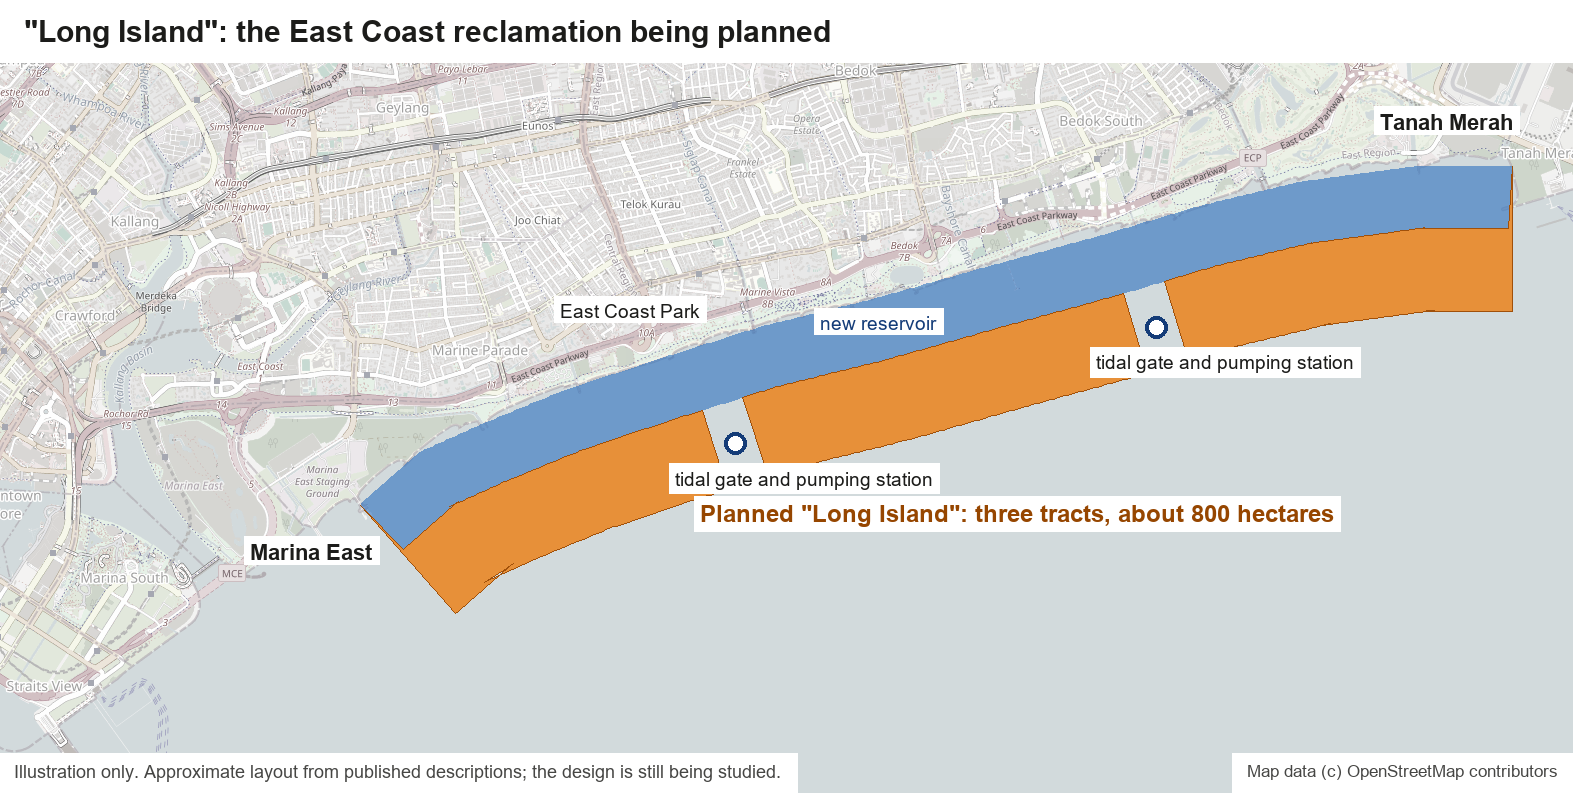
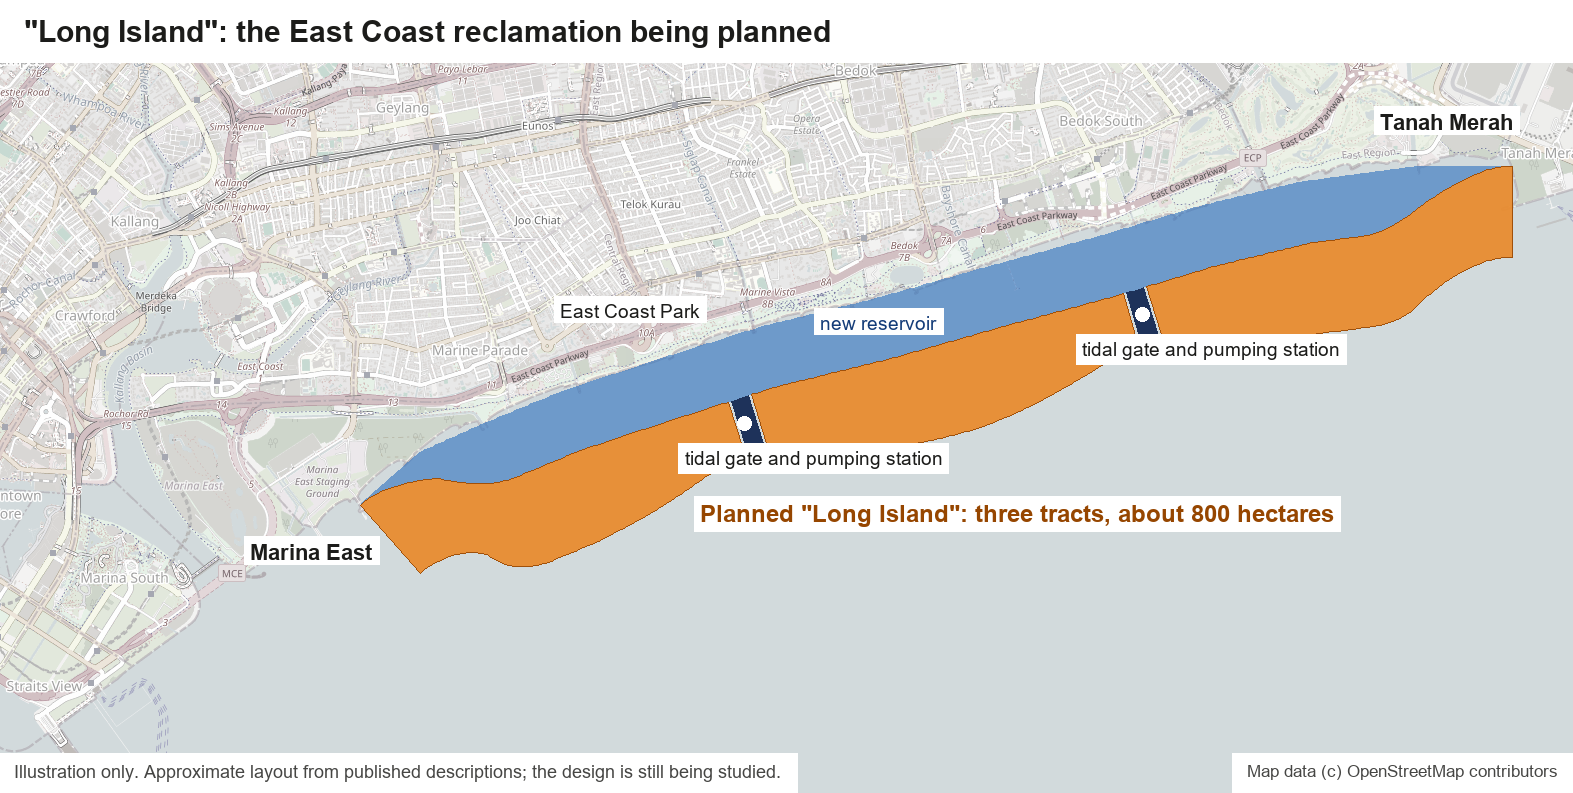
Long Island illustration: enclose the reservoir (land joints at both ends, gates spanning the gaps)
Islands now join the mainland at Marina East and Tanah Merah and the two tidal
gates close the gaps, as in URA's concept drawings; islands fuller mid-way,
narrower at the gates; ~813 ha. Smoothed coastline normals remove edge kinks.

Claude-Session: https://claude.ai/code/session_014vyi5DydGd12SnQWie299V

diff --git a/scripts/render_long_island_map.py b/scripts/render_long_island_map.py
@@ -8,7 +8,9 @@ of the concept announced in November 2023: three elongated tracts of reclaimed
 land from Marina East to Tanah Merah (the westernmost extending Marina East, the
 easternmost starting from Tanah Merah), a new reservoir between them and East
 Coast Park, and a tidal gate and pumping station between each pair of tracts,
-about 800 hectares in all. The tract shapes, widths and offsets are hand-set
+about 800 hectares in all. The two end islands join the mainland with wide
+land connections, so the reservoir is enclosed by land and the two gates, as in
+URA's concept drawings. The island shapes, widths and offsets are hand-set
 approximations sized to roughly 800 ha; URA says the design is still being
 studied. Official URA/CNA graphics are copyrighted and are not used.
 
@@ -38,10 +40,11 @@ M_PER_PX = 156543.03 * math.cos(math.radians(1.3)) / 2 ** Z
 # East Coast shoreline (pixel space of the cached base), Marina East -> Tanah Merah.
 COAST = [(360, 505), (420, 452), (480, 425), (560, 392), (650, 362), (760, 327), (870, 300),
          (990, 266), (1100, 236), (1200, 206), (1300, 182), (1420, 166), (1512, 166)]
-RES = 62    # reservoir width, px (seaward edge of the coast to the tracts)
-WIDTH = 83  # tract width, px
-# Tracts as fractions along the coastline; the ends join Marina East / Tanah Merah.
-TRACTS = [(0.0, 0.30), (0.335, 0.66), (0.695, 1.0)]
+RES = 62     # full reservoir width, px, between East Coast Park and the islands
+WIDTH = 91   # peak island width, px (islands are fuller mid-way, narrower at the gates)
+JOIN = 0.13  # length of the land joints at each end, as a fraction of the coast
+GATES = [0.33, 0.67]  # tidal gates between the islands, as fractions along the coast
+GAP = 0.018  # width of each gate gap, as a fraction of the coast
 
 
 def base():
@@ -77,6 +80,12 @@ def along(pts, n=400):
     normal = np.column_stack([-d[:, 1], d[:, 0]])  # rotate +90deg: points out to sea here
     if normal[:, 1].mean() < 0:
         normal = -normal
+    # smooth the normals so the offset edges don't kink at the coastline's corners
+    k = np.hanning(41)
+    k /= k.sum()
+    pad = np.pad(normal, ((20, 20), (0, 0)), mode="edge")
+    normal = np.column_stack([np.convolve(pad[:, 0], k, "valid"), np.convolve(pad[:, 1], k, "valid")])
+    normal /= np.hypot(normal[:, 0], normal[:, 1])[:, None]
     return xy, normal
 
 
@@ -96,24 +105,45 @@ def main():
     muted = Image.blend(muted, Image.new("RGB", b.size, "white"), 0.3)
     xy, nrm = along(COAST)
     N = len(xy)
+    t = np.linspace(0, 1, N)
+
+    def smooth(x):
+        x = np.clip(x, 0, 1)
+        return x * x * (3 - 2 * x)
+    # Reservoir width: zero at both ends (the islands join the mainland there),
+    # full width in between, so the reservoir is enclosed by land and gates.
+    r = RES * smooth(t / JOIN) * smooth((1 - t) / JOIN)
+    # Island width: fuller mid-island, narrowing towards each gate; at the two
+    # land joints the island is widest (a thick connection to the mainland).
+    edges = [0.0] + GATES + [1.0]
+    w = np.zeros(N)
+    for k in range(3):
+        a0, a1 = edges[k] + (GAP / 2 if k > 0 else 0), edges[k + 1] - (GAP / 2 if k < 2 else 0)
+        m = (t >= a0) & (t <= a1)
+        u = (t[m] - a0) / (a1 - a0)
+        taper_l = 1.0 if k == 0 else 0.55 + 0.45 * np.sin(np.pi * np.minimum(u, 0.5))
+        taper_r = 1.0 if k == 2 else 0.55 + 0.45 * np.sin(np.pi * np.minimum(1 - u, 0.5))
+        w[m] = WIDTH * np.minimum(taper_l, taper_r)
+    inner = xy + nrm * r[:, None]
+    outer = xy + nrm * (r + w)[:, None]
     tracts, area_px = [], 0.0
-    for a, z in TRACTS:
-        i0, i1 = int(a * (N - 1)), int(z * (N - 1))
-        inner = [tuple(xy[i] + nrm[i] * (RES if 0 < i < N - 1 else 0)) for i in range(i0, i1 + 1)]
-        # the two end tracts close onto the existing coast (Marina East / Tanah Merah)
-        if a == 0.0:
-            inner = [tuple(xy[i0])] + inner[1:]
-        if z == 1.0:
-            inner = inner[:-1] + [tuple(xy[i1])]
-        outer = [tuple(xy[i] + nrm[i] * (RES + WIDTH)) for i in range(i0, i1 + 1)]
-        poly = inner + outer[::-1]
+    for k in range(3):
+        a0, a1 = edges[k] + (GAP / 2 if k > 0 else 0), edges[k + 1] - (GAP / 2 if k < 2 else 0)
+        idx = np.where((t >= a0) & (t <= a1))[0]
+        poly = [tuple(inner[i]) for i in idx] + [tuple(outer[i]) for i in idx[::-1]]
         tracts.append(poly)
         q = np.array(poly)
         area_px += 0.5 * abs(np.dot(q[:, 0], np.roll(q[:, 1], 1)) - np.dot(q[:, 1], np.roll(q[:, 0], 1)))
     ha = area_px * M_PER_PX ** 2 / 1e4
-    print(f"tract area ~{ha:.0f} ha")
-    reservoir = [tuple(p) for p in xy] + [tuple(xy[i] + nrm[i] * RES) for i in range(N - 1, -1, -1)]
-    gates = [tuple(xy[int(g * (N - 1))] + nrm[int(g * (N - 1))] * (RES + WIDTH / 2)) for g in (0.3175, 0.6775)]
+    print(f"island area ~{ha:.0f} ha")
+    reservoir = [tuple(p) for p in xy] + [tuple(inner[i]) for i in range(N - 1, -1, -1)]
+    # Each gate spans its whole gap, from the reservoir edge to the islands' outer line.
+    gate_polys, gates = [], []
+    for g in GATES:
+        idx = np.where(np.abs(t - g) <= GAP / 2 + 1e-9)[0]
+        gate_polys.append([tuple(inner[i]) for i in idx] + [tuple(inner[i] + nrm[i] * WIDTH * 0.55) for i in idx[::-1]])
+        c = int(g * (N - 1))
+        gates.append(tuple(inner[c] + nrm[c] * WIDTH * 0.275))
 
     for stage in (0, 1):
         img = muted.copy().convert("RGBA")
@@ -123,6 +153,8 @@ def main():
             d.polygon(reservoir, fill=(40, 110, 190, 150))
             for poly in tracts:
                 d.polygon(poly, fill=(233, 138, 43, 235), outline=(160, 80, 10, 255))
+            for poly in gate_polys:
+                d.polygon(poly, fill=(30, 50, 90, 255))
         img = Image.alpha_composite(img, ov)
         d = ImageDraw.Draw(img)
         lab = font(22, bold=True)
@@ -138,7 +170,7 @@ def main():
         tag(1380, 110, "Tanah Merah")
         if stage == 1:
             for gx, gy in gates:
-                d.ellipse([gx - 11, gy - 11, gx + 11, gy + 11], fill=(255, 255, 255, 255), outline=(20, 60, 120, 255), width=4)
+                d.ellipse([gx - 7, gy - 7, gx + 7, gy + 7], fill=(255, 255, 255, 255))
             tag(gates[0][0] - 60, gates[0][1] + 24, "tidal gate and pumping station", f=small)
             tag(gates[1][0] - 60, gates[1][1] + 24, "tidal gate and pumping station", f=small)
             tag(700, 500, "Planned \"Long Island\": three tracts, about 800 hectares", f=font(24, bold=True), col=(150, 70, 0, 255))
